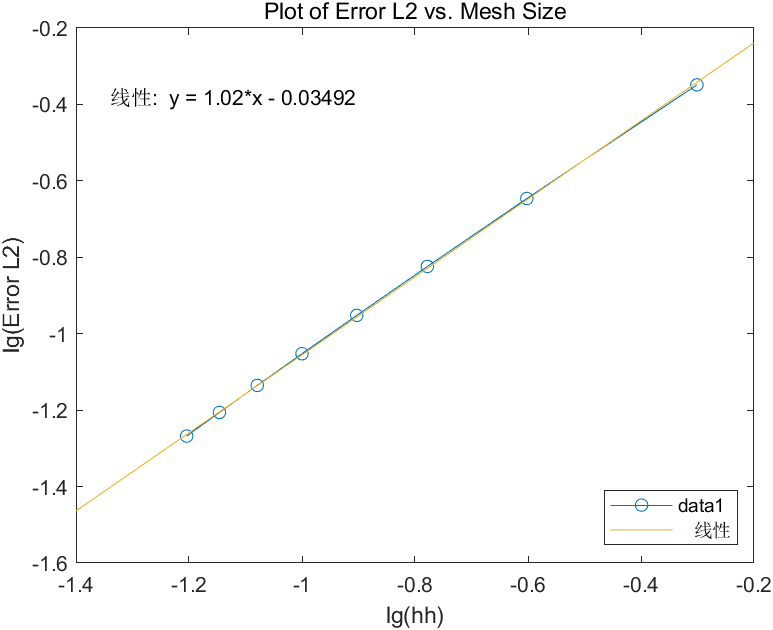
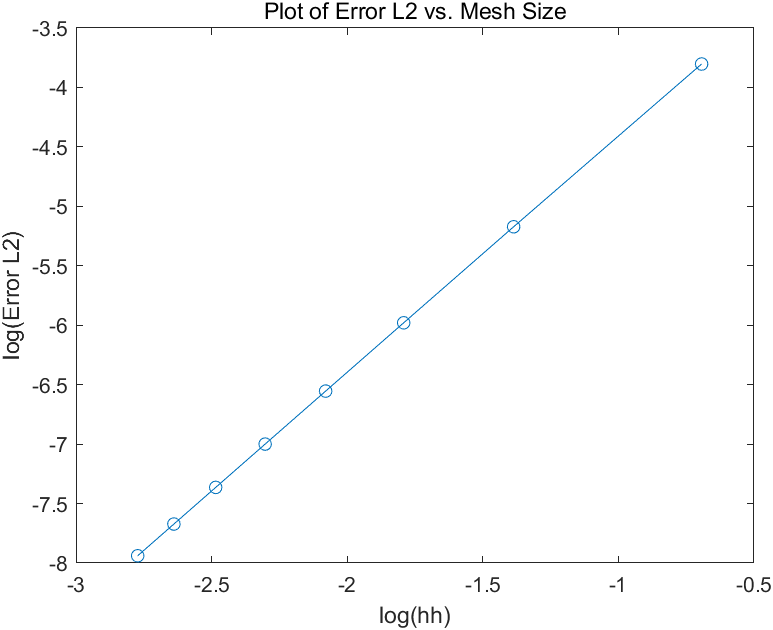
验证for n_int循环有无AA时最终效果相同；增添Error_L2 线性拟合

diff --git a/Course Codes/Relative_Errors.m b/Course Codes/Relative_Errors.m
@@ -7,8 +7,8 @@ exact_square = @(x) sin(x).^2;
 exact_dx = @(x) cos(x);
 exact_dx_square = @(x) cos(x).^2;
 % integral the exact solution and its derivitive
-result_L2_down = sqrt(integral(exact_square, 0, 1)); %分母部分
-result_H1_down = sqrt(integral(exact_dx_square, 0, 1)); %分母部分
+Error_L2_down = sqrt(integral(exact_square, 0, 1)); % L2分母部分
+Error_H1_down = sqrt(integral(exact_dx_square, 0, 1)); % H1分母部分
 
 % creat two tables to store the results
 resultTable_L2 = table();
@@ -56,12 +56,15 @@ for n_el = 2:2:16 % generate different mesh
             end
             u_exact = exact(x_l);
             AA = AA + weight(l) * (u_h - u_exact)^2 * dx_dxi;
+            % Error_L2 = Error_L2 + weight(l) * (u_h - u_exact)^2 * dx_dxi;
+            % We can obtain the same results with the above equation only.
+            % AA is just here for helping understanding the loop.
         end
         
         Error_L2 = Error_L2 + AA;
     end
     
-    Error_Final_L2 = Error_L2^0.5 / result_L2_down;
+    Error_Final_L2 = Error_L2^0.5 / Error_L2_down;
     %Store the results into the table and plot them
     resultTable_L2 = [resultTable_L2; table(hh, Error_Final_L2)];
     plot(log(resultTable_L2.hh),log(resultTable_L2.Error_Final_L2),'o-')
@@ -69,7 +72,6 @@ for n_el = 2:2:16 % generate different mesh
     xlabel('log(hh)');
     ylabel('log(Error L2)');
     title('Plot of Error L2 vs. Mesh Size');
-
 end
 
 
